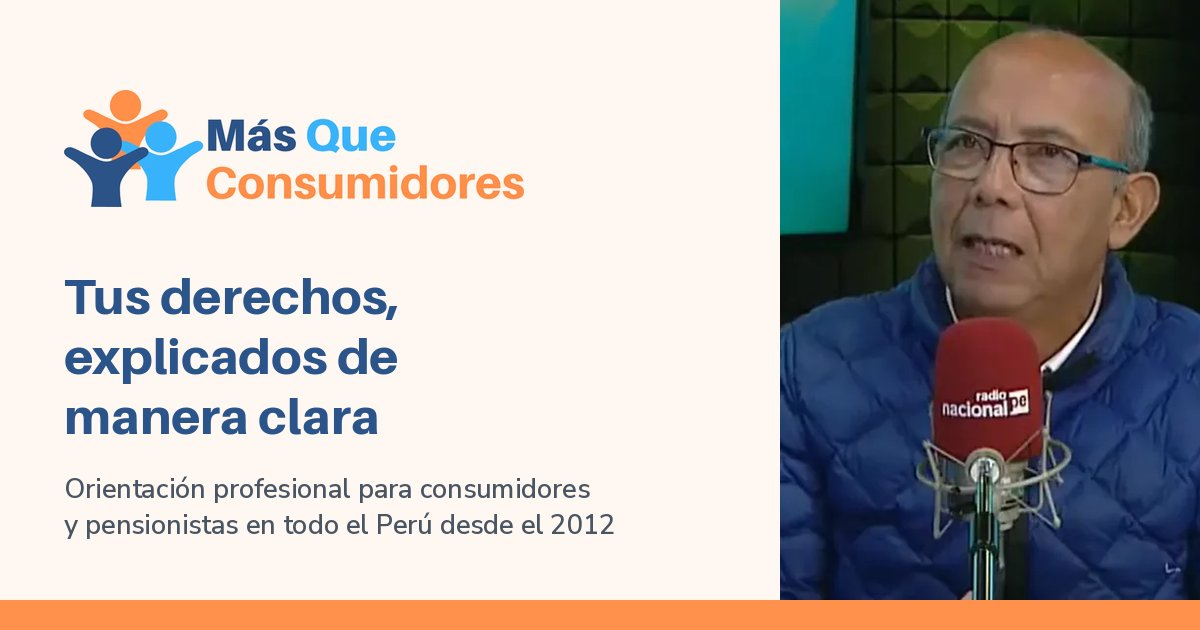
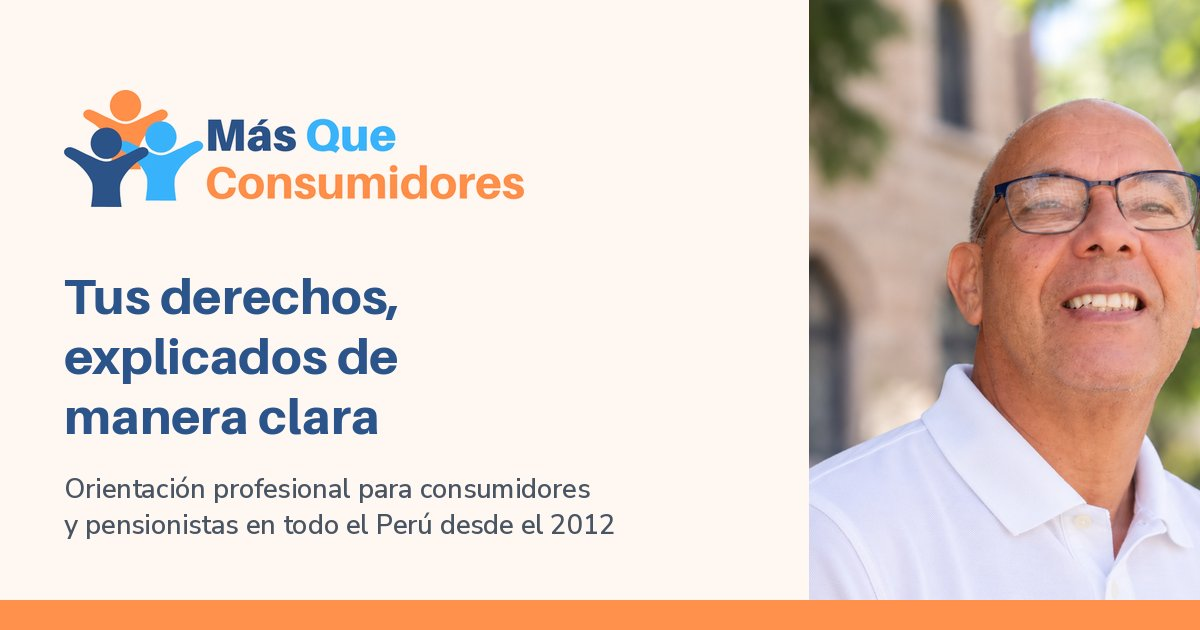
Add files via upload

diff --git a/index.html b/index.html
@@ -21,7 +21,7 @@
 <link rel="icon" type="image/png" sizes="48x48" href="assets/img/favicon-48.png">
 <link rel="apple-touch-icon" href="assets/img/apple-touch-icon.png">
 <link rel="preload" href="assets/fonts/aileron-latin-800-normal.woff2" as="font" type="font/woff2" crossorigin>
-<link rel="stylesheet" href="assets/css/styles.css?v=2">
+<link rel="stylesheet" href="assets/css/styles.css?v=3">
 <!-- Google Analytics 4: reemplazar G-XXXXXXXXXX por el ID de medición y quitar los comentarios.
 <script async src="https://www.googletagmanager.com/gtag/js?id=G-XXXXXXXXXX"></script>
 <script>window.dataLayer=window.dataLayer||[];function gtag(){dataLayer.push(arguments);}gtag('js',new Date());gtag('config','G-XXXXXXXXXX');</script>
@@ -76,14 +76,14 @@
           <span><strong>Voz de confianza en los medios</strong>El Comercio · Radio Nacional</span>
         </div>
         <figure>
-          <img src="assets/img/abdon-delgado-radio-nacional.webp" alt="Abdon César Delgado La Cotera durante una entrevista en Radio Nacional" width="900" height="614" fetchpriority="high">
-          <figcaption>Nuestro fundador en «La Voz del Consumidor», Radio Nacional</figcaption>
+          <img src="assets/img/abdon-delgado-el-comercio.webp" alt="Abdon César Delgado La Cotera entrevistado en la redacción de El Comercio" width="900" height="614" fetchpriority="high">
+          <figcaption class="sr-only">Nuestro fundador entrevistado por El Comercio</figcaption>
         </figure>
       </div>
     </div>
 
     <div class="fundador">
-      <img class="fundador__foto" src="assets/img/abdon-delgado.webp" alt="Retrato de Abdon César Delgado La Cotera" width="400" height="400" loading="lazy">
+      <img class="fundador__foto" src="assets/img/abdon-delgado.webp" alt="Retrato de Abdon César Delgado La Cotera" width="500" height="500" loading="lazy">
       <div>
         <h3>Abdon César Delgado La Cotera</h3>
         <p class="fundador__cargo">Fundador y presidente</p>
@@ -311,6 +311,6 @@
   </div>
 </footer>
 <a class="wa-flotante" href="https://wa.me/51987098623?text=Hola%2C%20quisiera%20una%20orientaci%C3%B3n%20sobre%20" aria-label="Escríbenos por WhatsApp" data-sin-icono><svg viewBox="0 0 24 24" aria-hidden="true" focusable="false"><path d="M17.47 14.38c-.3-.15-1.76-.87-2.03-.97-.27-.1-.47-.15-.67.15-.2.3-.77.97-.94 1.16-.17.2-.35.22-.64.08-.3-.15-1.26-.46-2.39-1.48-.88-.79-1.48-1.76-1.65-2.06-.17-.3-.02-.46.13-.6.13-.14.3-.35.45-.52.15-.18.2-.3.3-.5.1-.2.05-.37-.03-.52-.07-.15-.67-1.61-.92-2.2-.24-.58-.49-.5-.67-.51h-.57c-.2 0-.52.07-.79.37-.27.3-1.04 1.02-1.04 2.48s1.07 2.88 1.21 3.07c.15.2 2.1 3.2 5.08 4.49.71.31 1.26.49 1.7.63.71.22 1.36.19 1.87.12.57-.09 1.76-.72 2-1.42.25-.69.25-1.29.17-1.41-.07-.12-.27-.2-.57-.35m-5.42 7.4h-.01a9.87 9.87 0 0 1-5.03-1.38l-.36-.21-3.74.98 1-3.65-.24-.37a9.86 9.86 0 0 1-1.51-5.26c0-5.45 4.44-9.88 9.89-9.88 2.64 0 5.12 1.03 6.99 2.9a9.83 9.83 0 0 1 2.89 6.99c0 5.45-4.44 9.88-9.88 9.88m8.41-18.3A11.82 11.82 0 0 0 12.05 0C5.5 0 .16 5.34.16 11.89c0 2.1.55 4.14 1.59 5.95L.06 24l6.3-1.65a11.88 11.88 0 0 0 5.68 1.45h.01c6.55 0 11.89-5.34 11.89-11.89a11.82 11.82 0 0 0-3.48-8.41Z"/></svg><span>WhatsApp</span></a>
-<script src="assets/js/main.js?v=2" defer></script>
+<script src="assets/js/main.js?v=3" defer></script>
 </body>
 </html>

diff --git a/privacidad/index.html b/privacidad/index.html
@@ -21,7 +21,7 @@
 <link rel="icon" type="image/png" sizes="48x48" href="../assets/img/favicon-48.png">
 <link rel="apple-touch-icon" href="../assets/img/apple-touch-icon.png">
 <link rel="preload" href="../assets/fonts/aileron-latin-800-normal.woff2" as="font" type="font/woff2" crossorigin>
-<link rel="stylesheet" href="../assets/css/styles.css?v=2">
+<link rel="stylesheet" href="../assets/css/styles.css?v=3">
 <!-- Google Analytics 4: reemplazar G-XXXXXXXXXX por el ID de medición y quitar los comentarios.
 <script async src="https://www.googletagmanager.com/gtag/js?id=G-XXXXXXXXXX"></script>
 <script>window.dataLayer=window.dataLayer||[];function gtag(){dataLayer.push(arguments);}gtag('js',new Date());gtag('config','G-XXXXXXXXXX');</script>
@@ -115,6 +115,6 @@
   </div>
 </footer>
 <a class="wa-flotante" href="https://wa.me/51987098623?text=Hola%2C%20quisiera%20una%20orientaci%C3%B3n%20sobre%20" aria-label="Escríbenos por WhatsApp" data-sin-icono><svg viewBox="0 0 24 24" aria-hidden="true" focusable="false"><path d="M17.47 14.38c-.3-.15-1.76-.87-2.03-.97-.27-.1-.47-.15-.67.15-.2.3-.77.97-.94 1.16-.17.2-.35.22-.64.08-.3-.15-1.26-.46-2.39-1.48-.88-.79-1.48-1.76-1.65-2.06-.17-.3-.02-.46.13-.6.13-.14.3-.35.45-.52.15-.18.2-.3.3-.5.1-.2.05-.37-.03-.52-.07-.15-.67-1.61-.92-2.2-.24-.58-.49-.5-.67-.51h-.57c-.2 0-.52.07-.79.37-.27.3-1.04 1.02-1.04 2.48s1.07 2.88 1.21 3.07c.15.2 2.1 3.2 5.08 4.49.71.31 1.26.49 1.7.63.71.22 1.36.19 1.87.12.57-.09 1.76-.72 2-1.42.25-.69.25-1.29.17-1.41-.07-.12-.27-.2-.57-.35m-5.42 7.4h-.01a9.87 9.87 0 0 1-5.03-1.38l-.36-.21-3.74.98 1-3.65-.24-.37a9.86 9.86 0 0 1-1.51-5.26c0-5.45 4.44-9.88 9.89-9.88 2.64 0 5.12 1.03 6.99 2.9a9.83 9.83 0 0 1 2.89 6.99c0 5.45-4.44 9.88-9.88 9.88m8.41-18.3A11.82 11.82 0 0 0 12.05 0C5.5 0 .16 5.34.16 11.89c0 2.1.55 4.14 1.59 5.95L.06 24l6.3-1.65a11.88 11.88 0 0 0 5.68 1.45h.01c6.55 0 11.89-5.34 11.89-11.89a11.82 11.82 0 0 0-3.48-8.41Z"/></svg><span>WhatsApp</span></a>
-<script src="../assets/js/main.js?v=2" defer></script>
+<script src="../assets/js/main.js?v=3" defer></script>
 </body>
 </html>

diff --git a/gracias/index.html b/gracias/index.html
@@ -21,7 +21,7 @@
 <link rel="icon" type="image/png" sizes="48x48" href="../assets/img/favicon-48.png">
 <link rel="apple-touch-icon" href="../assets/img/apple-touch-icon.png">
 <link rel="preload" href="../assets/fonts/aileron-latin-800-normal.woff2" as="font" type="font/woff2" crossorigin>
-<link rel="stylesheet" href="../assets/css/styles.css?v=2">
+<link rel="stylesheet" href="../assets/css/styles.css?v=3">
 <!-- Google Analytics 4: reemplazar G-XXXXXXXXXX por el ID de medición y quitar los comentarios.
 <script async src="https://www.googletagmanager.com/gtag/js?id=G-XXXXXXXXXX"></script>
 <script>window.dataLayer=window.dataLayer||[];function gtag(){dataLayer.push(arguments);}gtag('js',new Date());gtag('config','G-XXXXXXXXXX');</script>
@@ -95,6 +95,6 @@
   </div>
 </footer>
 <a class="wa-flotante" href="https://wa.me/51987098623?text=Hola%2C%20quisiera%20una%20orientaci%C3%B3n%20sobre%20" aria-label="Escríbenos por WhatsApp" data-sin-icono><svg viewBox="0 0 24 24" aria-hidden="true" focusable="false"><path d="M17.47 14.38c-.3-.15-1.76-.87-2.03-.97-.27-.1-.47-.15-.67.15-.2.3-.77.97-.94 1.16-.17.2-.35.22-.64.08-.3-.15-1.26-.46-2.39-1.48-.88-.79-1.48-1.76-1.65-2.06-.17-.3-.02-.46.13-.6.13-.14.3-.35.45-.52.15-.18.2-.3.3-.5.1-.2.05-.37-.03-.52-.07-.15-.67-1.61-.92-2.2-.24-.58-.49-.5-.67-.51h-.57c-.2 0-.52.07-.79.37-.27.3-1.04 1.02-1.04 2.48s1.07 2.88 1.21 3.07c.15.2 2.1 3.2 5.08 4.49.71.31 1.26.49 1.7.63.71.22 1.36.19 1.87.12.57-.09 1.76-.72 2-1.42.25-.69.25-1.29.17-1.41-.07-.12-.27-.2-.57-.35m-5.42 7.4h-.01a9.87 9.87 0 0 1-5.03-1.38l-.36-.21-3.74.98 1-3.65-.24-.37a9.86 9.86 0 0 1-1.51-5.26c0-5.45 4.44-9.88 9.89-9.88 2.64 0 5.12 1.03 6.99 2.9a9.83 9.83 0 0 1 2.89 6.99c0 5.45-4.44 9.88-9.88 9.88m8.41-18.3A11.82 11.82 0 0 0 12.05 0C5.5 0 .16 5.34.16 11.89c0 2.1.55 4.14 1.59 5.95L.06 24l6.3-1.65a11.88 11.88 0 0 0 5.68 1.45h.01c6.55 0 11.89-5.34 11.89-11.89a11.82 11.82 0 0 0-3.48-8.41Z"/></svg><span>WhatsApp</span></a>
-<script src="../assets/js/main.js?v=2" defer></script>
+<script src="../assets/js/main.js?v=3" defer></script>
 </body>
 </html>

diff --git a/404.html b/404.html
@@ -21,7 +21,7 @@
 <link rel="icon" type="image/png" sizes="48x48" href="/assets/img/favicon-48.png">
 <link rel="apple-touch-icon" href="/assets/img/apple-touch-icon.png">
 <link rel="preload" href="/assets/fonts/aileron-latin-800-normal.woff2" as="font" type="font/woff2" crossorigin>
-<link rel="stylesheet" href="/assets/css/styles.css?v=2">
+<link rel="stylesheet" href="/assets/css/styles.css?v=3">
 <!-- Google Analytics 4: reemplazar G-XXXXXXXXXX por el ID de medición y quitar los comentarios.
 <script async src="https://www.googletagmanager.com/gtag/js?id=G-XXXXXXXXXX"></script>
 <script>window.dataLayer=window.dataLayer||[];function gtag(){dataLayer.push(arguments);}gtag('js',new Date());gtag('config','G-XXXXXXXXXX');</script>
@@ -95,6 +95,6 @@
   </div>
 </footer>
 <a class="wa-flotante" href="https://wa.me/51987098623?text=Hola%2C%20quisiera%20una%20orientaci%C3%B3n%20sobre%20" aria-label="Escríbenos por WhatsApp" data-sin-icono><svg viewBox="0 0 24 24" aria-hidden="true" focusable="false"><path d="M17.47 14.38c-.3-.15-1.76-.87-2.03-.97-.27-.1-.47-.15-.67.15-.2.3-.77.97-.94 1.16-.17.2-.35.22-.64.08-.3-.15-1.26-.46-2.39-1.48-.88-.79-1.48-1.76-1.65-2.06-.17-.3-.02-.46.13-.6.13-.14.3-.35.45-.52.15-.18.2-.3.3-.5.1-.2.05-.37-.03-.52-.07-.15-.67-1.61-.92-2.2-.24-.58-.49-.5-.67-.51h-.57c-.2 0-.52.07-.79.37-.27.3-1.04 1.02-1.04 2.48s1.07 2.88 1.21 3.07c.15.2 2.1 3.2 5.08 4.49.71.31 1.26.49 1.7.63.71.22 1.36.19 1.87.12.57-.09 1.76-.72 2-1.42.25-.69.25-1.29.17-1.41-.07-.12-.27-.2-.57-.35m-5.42 7.4h-.01a9.87 9.87 0 0 1-5.03-1.38l-.36-.21-3.74.98 1-3.65-.24-.37a9.86 9.86 0 0 1-1.51-5.26c0-5.45 4.44-9.88 9.89-9.88 2.64 0 5.12 1.03 6.99 2.9a9.83 9.83 0 0 1 2.89 6.99c0 5.45-4.44 9.88-9.88 9.88m8.41-18.3A11.82 11.82 0 0 0 12.05 0C5.5 0 .16 5.34.16 11.89c0 2.1.55 4.14 1.59 5.95L.06 24l6.3-1.65a11.88 11.88 0 0 0 5.68 1.45h.01c6.55 0 11.89-5.34 11.89-11.89a11.82 11.82 0 0 0-3.48-8.41Z"/></svg><span>WhatsApp</span></a>
-<script src="/assets/js/main.js?v=2" defer></script>
+<script src="/assets/js/main.js?v=3" defer></script>
 </body>
 </html>
